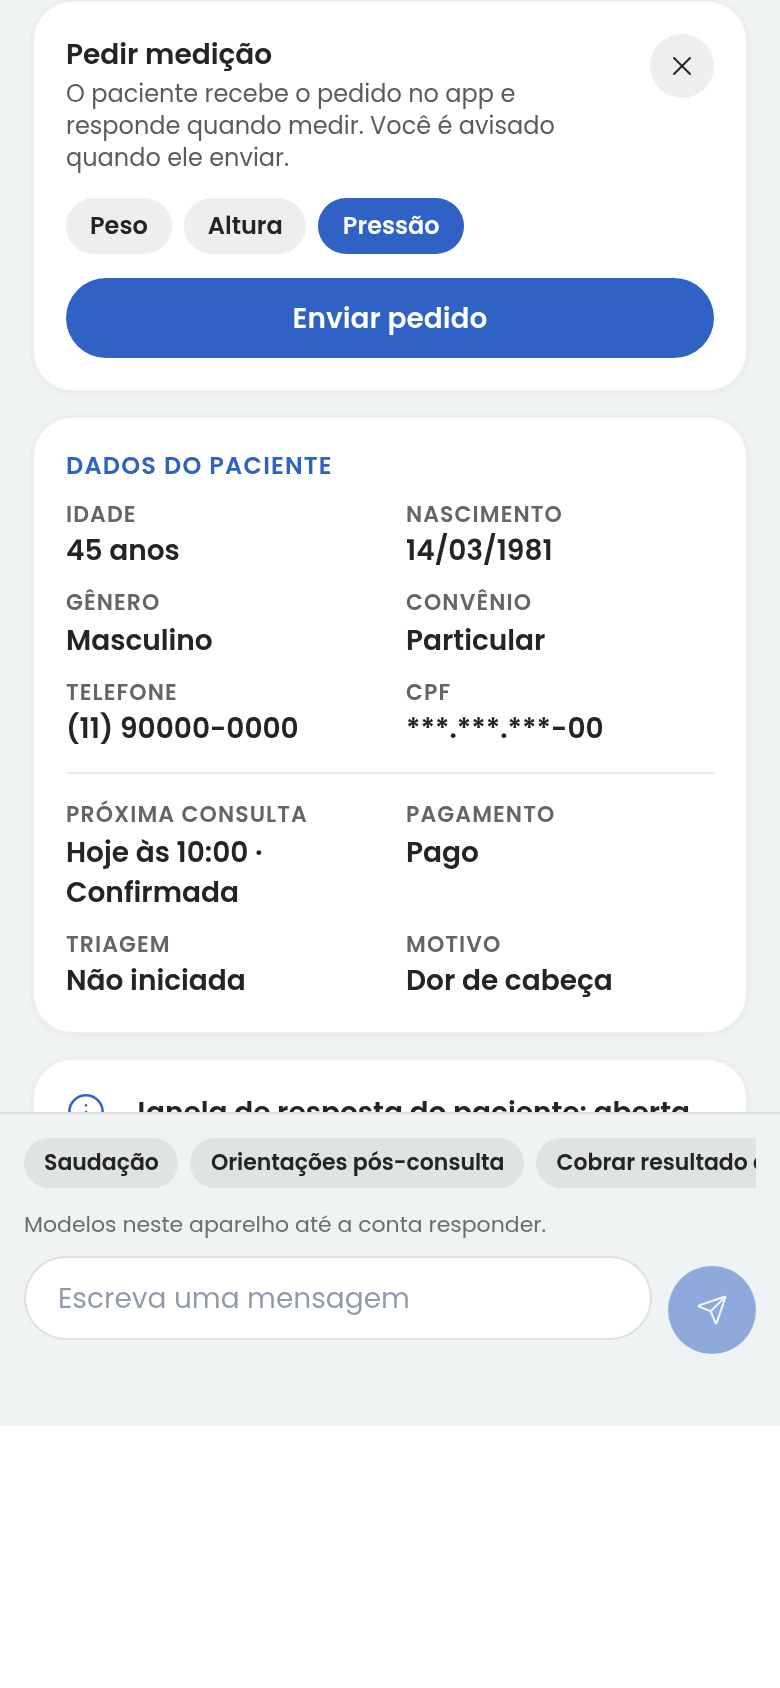
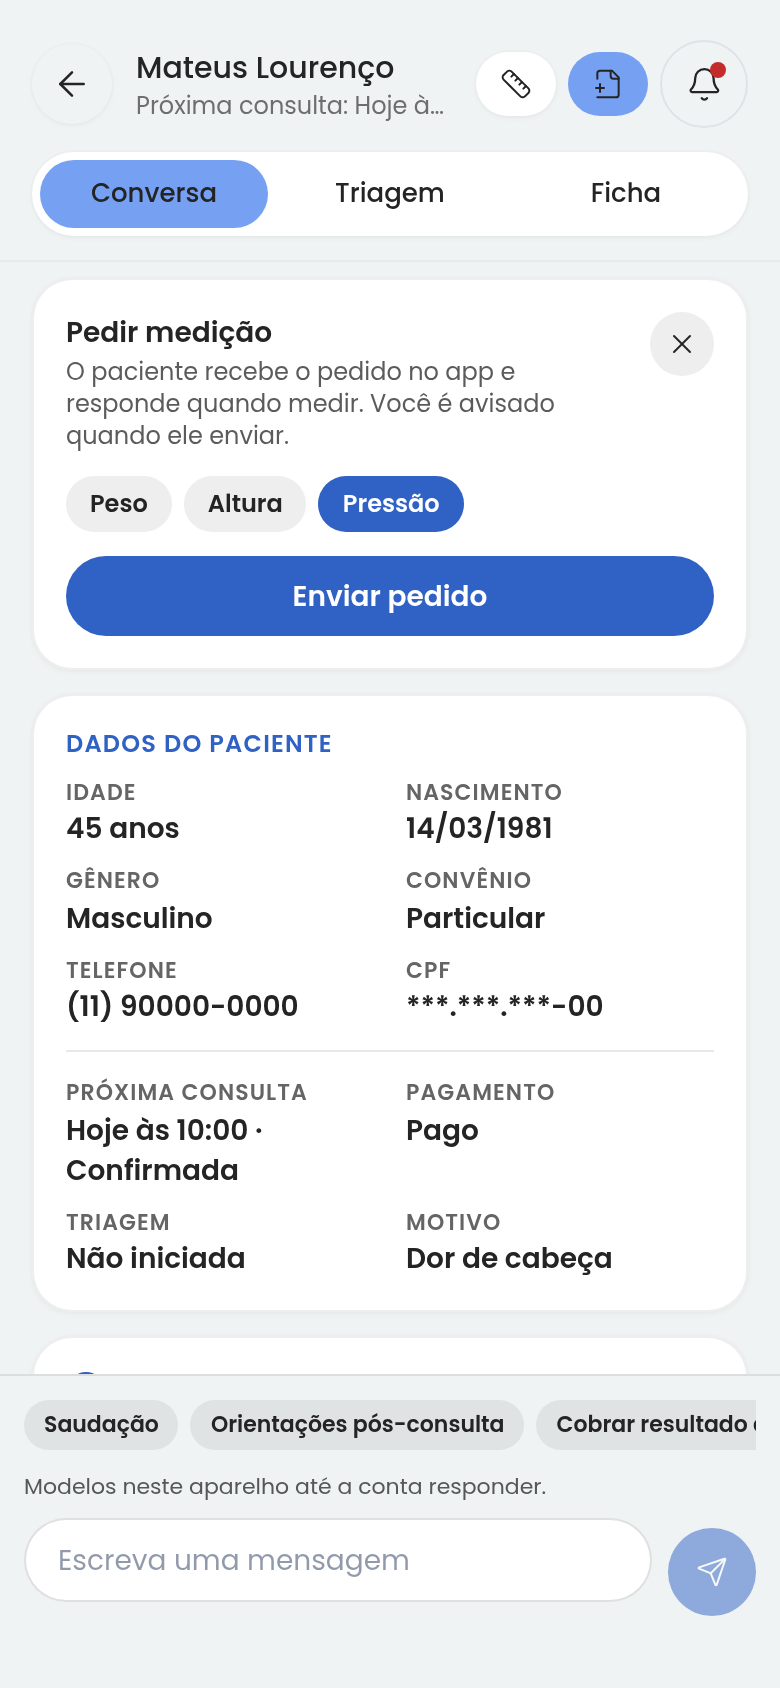
Médico etapa 5: atalho de medição rola só a conversa (sem faixa vazia embaixo)

diff --git a/src/components/bion/medico/ConversaPaciente.tsx b/src/components/bion/medico/ConversaPaciente.tsx
@@ -147,7 +147,14 @@ export function ConversaPaciente({
       const sec = document.querySelector<HTMLElement>('section[aria-label="Pedir medição ao paciente"]');
       if (!sec) return;
       const reduz = window.matchMedia("(prefers-reduced-motion: reduce)").matches;
-      sec.scrollIntoView({ block: "start", behavior: reduz ? "auto" : "smooth" });
+      // Rola só a lista da conversa (scrollIntoView rolava também a página
+      // por trás da sobreposição e deixava uma faixa vazia embaixo).
+      let caixa = sec.parentElement;
+      while (caixa && !(/(auto|scroll)/.test(getComputedStyle(caixa).overflowY) && caixa.scrollHeight > caixa.clientHeight)) caixa = caixa.parentElement;
+      if (caixa) {
+        const topo = caixa.scrollTop + sec.getBoundingClientRect().top - caixa.getBoundingClientRect().top - 8;
+        caixa.scrollTo({ top: Math.max(0, topo), behavior: reduz ? "auto" : "smooth" });
+      }
       sec.querySelector<HTMLElement>("input, button")?.focus({ preventScroll: true });
     }, 450);
     return () => clearTimeout(t);
